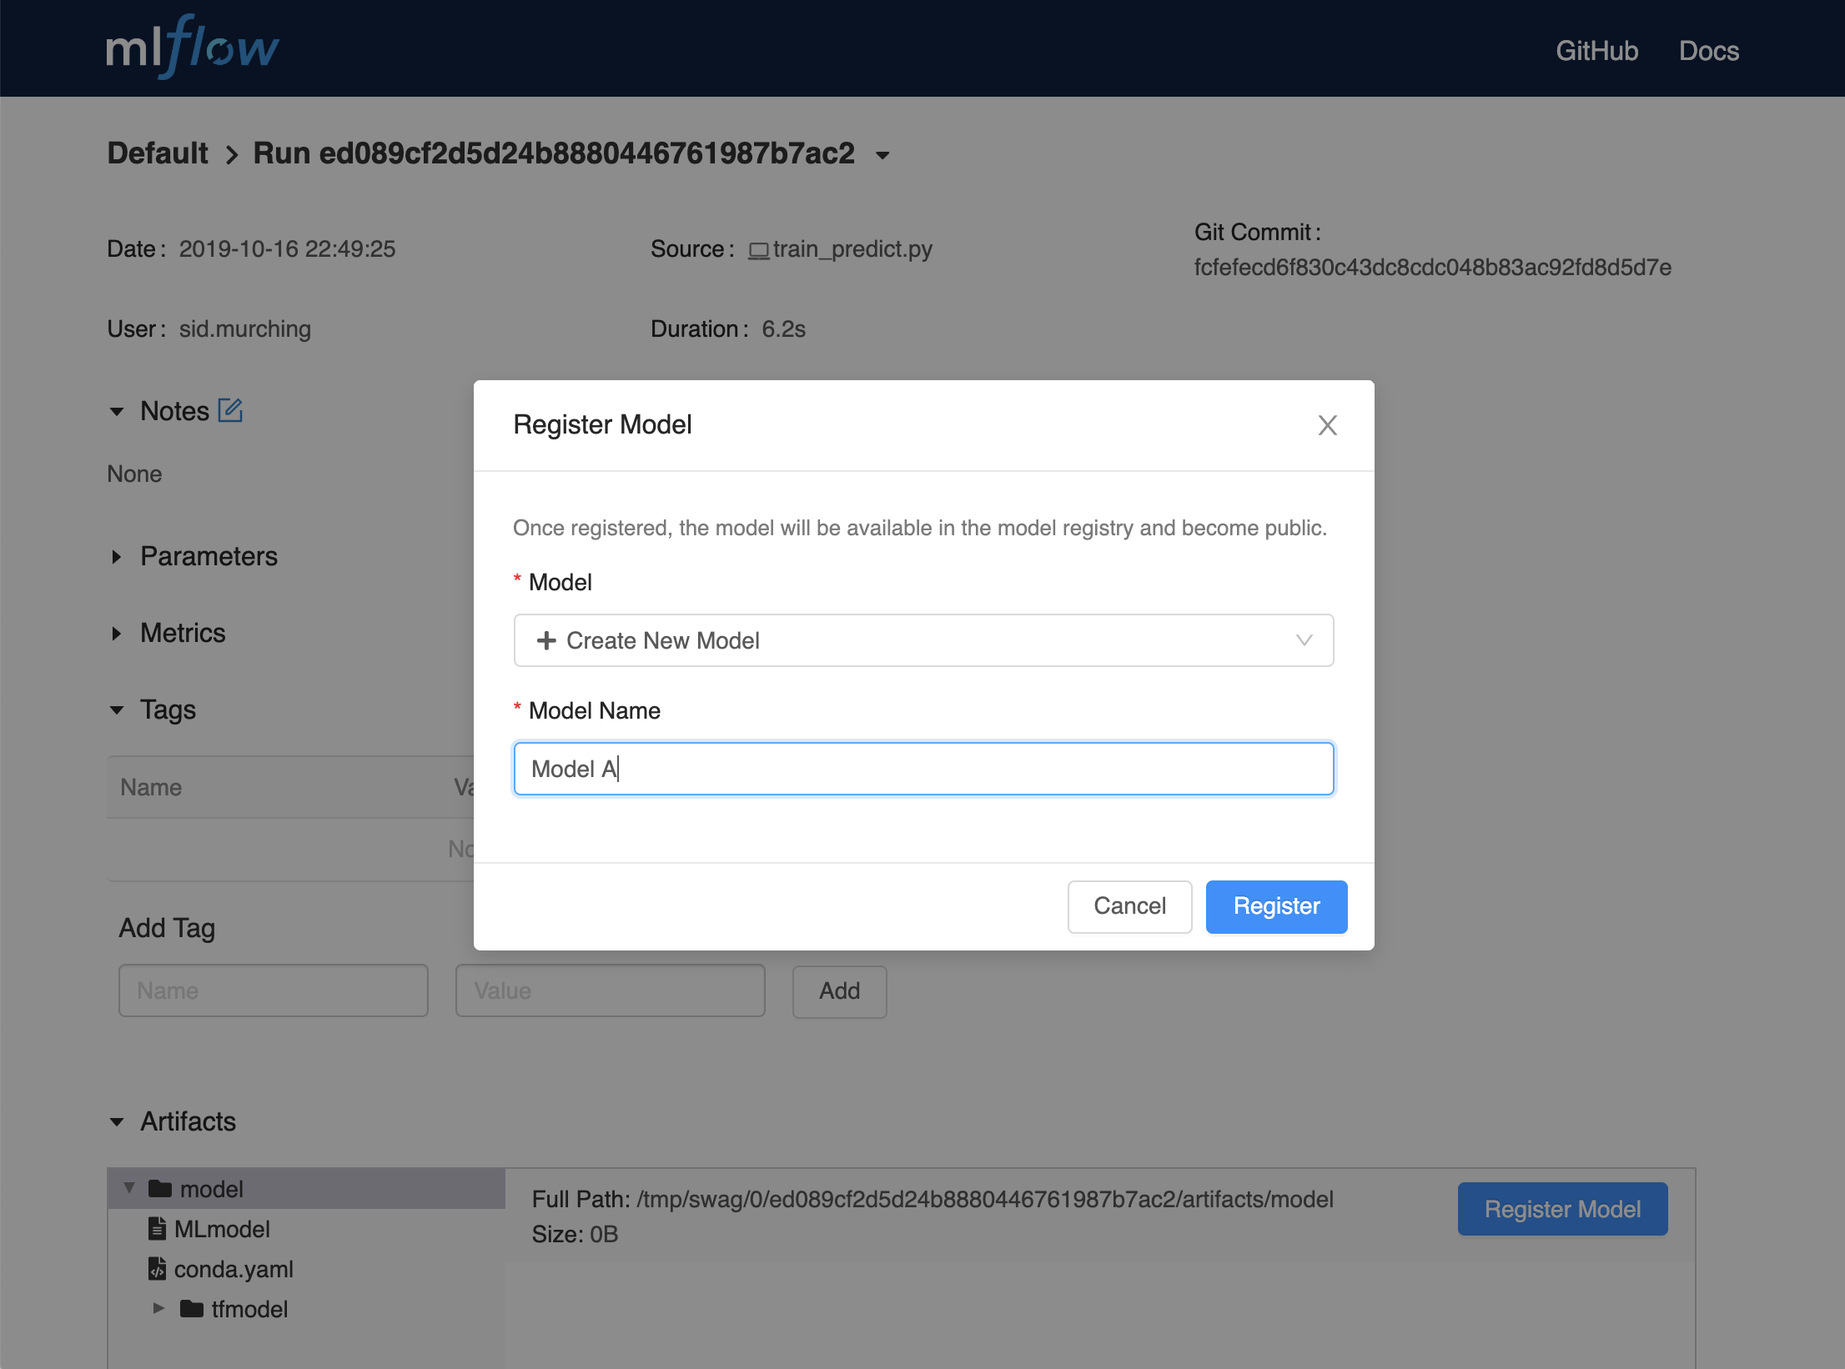
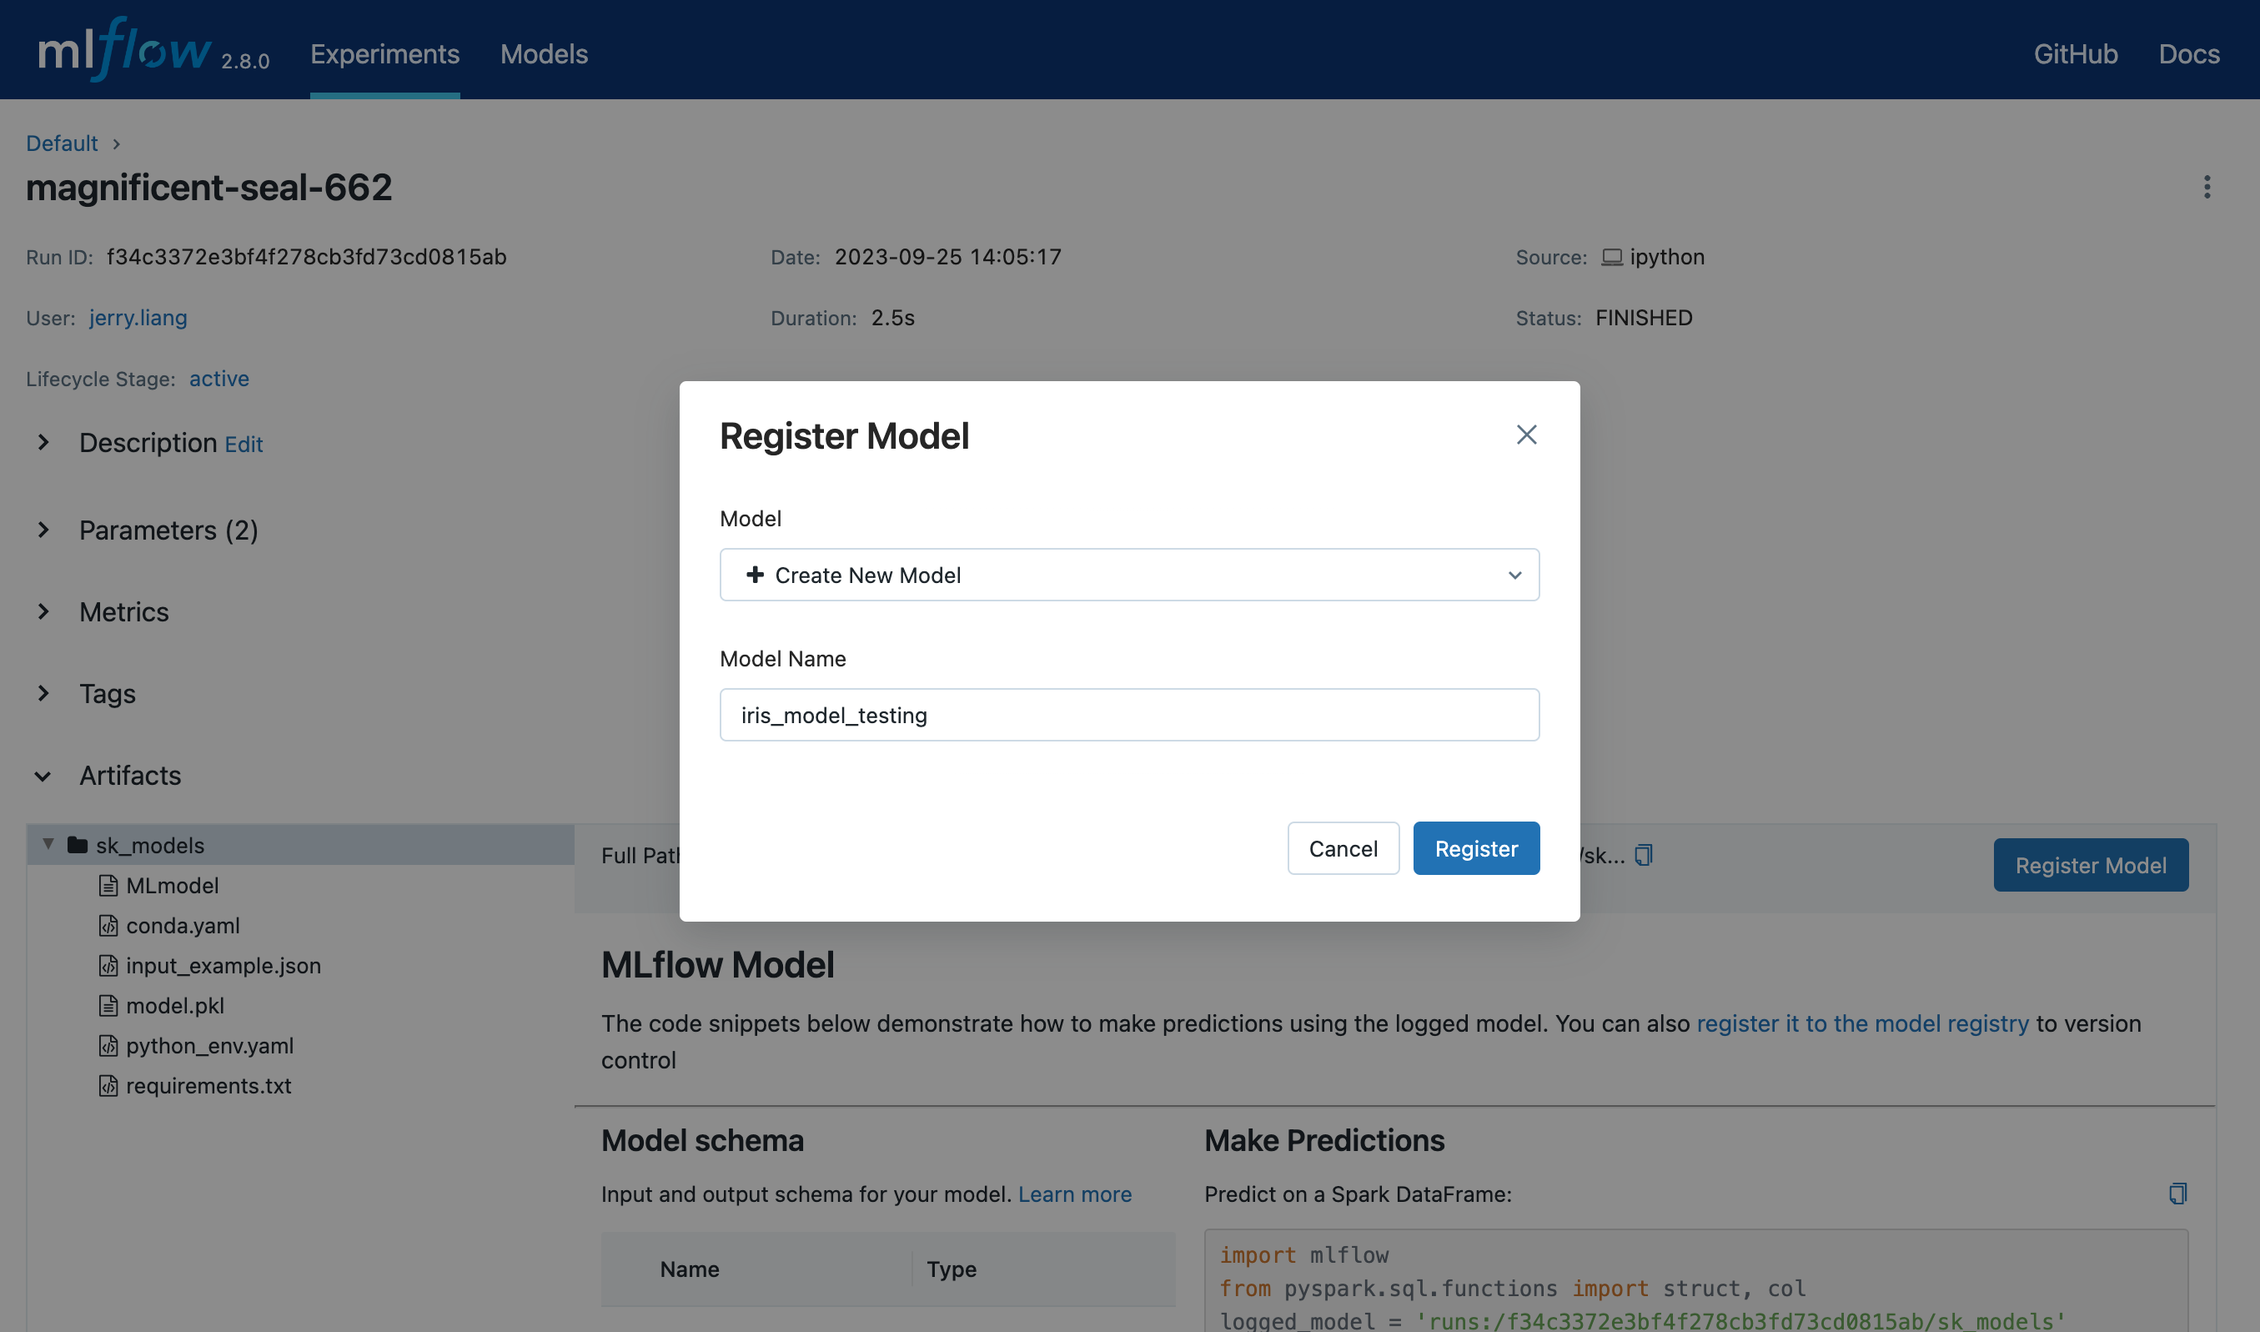
Update model registry documentation for aliases (#9721)

diff --git a/docs/source/conf.py b/docs/source/conf.py
@@ -89,7 +89,8 @@ language = None
 # List of patterns, relative to source directory, that match files and
 # directories to ignore when looking for source files.
 # This patterns also effect to html_static_path and html_extra_path
-exclude_patterns = []
+# We exclude "registry.rst" because it is an orphan redirect
+exclude_patterns = ["registry.rst"]
 
 # The reST default role (used for this markup: `text`) to use for all
 # documents.

diff --git a/docs/source/model-registry.rst b/docs/source/model-registry.rst
@@ -6,8 +6,8 @@ MLflow Model Registry
 
 The MLflow Model Registry component is a centralized model store, set of APIs, and UI, to
 collaboratively manage the full lifecycle of an MLflow Model. It provides model lineage (which
-MLflow experiment and run produced the model), model versioning, stage transitions (for example from
-staging to production), and annotations.
+MLflow experiment and run produced the model), model versioning, model aliasing, model tagging, and
+annotations.
 
 .. contents:: Table of Contents
   :local:
@@ -22,19 +22,26 @@ Model
     An MLflow Model is created from an experiment or run that is logged with one of the model flavor’s ``mlflow.<model_flavor>.log_model()`` methods. Once logged, this model can then be registered with the Model Registry.
 
 Registered Model
-    An MLflow Model can be registered with the  Model Registry. A registered model has a unique name, contains versions, associated transitional stages, model lineage, and other metadata.
+    An MLflow Model can be registered with the Model Registry. A registered model has a unique name, contains versions, associated transitional stages, model lineage, and other metadata.
 
 Model Version
     Each registered model can have one or many versions. When a new model is added to the Model Registry, it is added as version 1. Each new model registered to the same model name increments the version number.
 
-Model Stage
-    Each distinct model version can be assigned one stage at any given time. MLflow provides predefined stages for common use-cases such as *Staging*, *Production* or *Archived*. You can transition a model version from one stage to another stage.
+.. _using-registered-model-aliases:
+
+Model Alias
+    Model aliases allow you to assign a mutable, named reference to a particular version of a registered model. By assigning an alias to a specific model version, you can use the alias to refer that model version via a model URI or the model registry API. For example, you can create an alias named ``champion`` that points to version 1 of a model named ``MyModel``. You can then refer to version 1 of ``MyModel`` by using the URI ``models:/MyModel@champion``.
+
+    Aliases are especially useful for deploying models. For example, you could assign a ``champion`` alias to the model version intended for production traffic and target this alias in production workloads. You can then update the model serving production traffic by reassigning the ``champion`` alias to a different model version.
+
+Tags
+    Tags are key-value pairs that you associate with registered models and model versions, allowing you to label and categorize them by function or status. For example, you could apply a tag with key ``"task"`` and value ``"question-answering"`` (displayed in the UI as ``task:question-answering``) to registered models intended for question answering tasks. At the model version level, you could tag versions undergoing pre-deployment validation with ``validation_status:pending`` and those cleared for deployment with ``validation_status:approved``.
 
 Annotations and Descriptions
     You can annotate the top-level model and each version individually using Markdown, including description and any relevant information useful for the team such as algorithm descriptions, dataset employed or methodology.
 
-Model Alias
-    You can create an alias for a registered model that points to a specific model version. You can then use an alias to refer to a specific model version via a model URI or the model registry API. For example, you can create an alias named ``Champion`` that points to version 1 of a model named ``MyModel``. You can then refer to version 1 of ``MyModel`` by using the URI ``models:/MyModel@Champion``.
+Model Stage
+    Each distinct model version can be assigned one stage at any given time. MLflow provides predefined stages for common use-cases such as *Staging*, *Production* or *Archived*. You can transition a model version from one stage to another stage.
 
 Model Registry Workflows
 ========================
@@ -42,50 +49,58 @@ If running your own MLflow server, you must use a database-backed backend store 
 the model registry via the UI or API. `See here <tracking.html#backend-stores>`_ for more information.
 
 Before you can add a model to the Model Registry, you must log it using the ``log_model`` methods
-of the corresponding model flavors. Once a model has been logged, you can add, modify, update, transition,
-or delete model in the Model Registry through the UI or the API.
+of the corresponding model flavors. Once a model has been logged, you can add, modify, update,
+or delete the model in the Model Registry through the UI or the API.
 
 UI Workflow
 -----------
 
-Registering a Model
-^^^^^^^^^^^^^^^^^^^
+This section demonstrates how to use the MLflow Model Registry UI to manage your MLflow models.
 
-#. From the MLflow Runs detail page, select a logged MLflow Model in the **Artifacts** section.
+Register a Model
+^^^^^^^^^^^^^^^^
 
-#. Click the **Register Model** button.
+Follow the steps below to register your MLflow model in the Model Registry.
 
-   .. figure:: _static/images/oss_registry_1_register.png
+1. Open the details page for the MLflow Run containing the logged MLflow model you'd like to register. Select the model folder containing the intended MLflow model in the **Artifacts** section.
 
-#. In the **Model Name** field, if you are adding a new model, specify a unique name to identify the model. If you are registering a new version to an existing model, pick the existing model name from the dropdown.
+  .. figure:: _static/images/oss_registry_1_register.png
 
+2. Click the **Register Model** button, which will trigger a form to pop up.
+
+3. In the **Model** dropdown menu on the form, you can either select "Create New Model", which creates a new registered model with your MLflow model as its initial version, or select an existing registered model, which registers your model under it as a new version. The screenshot below demonstrates registering the MLflow model to a new registered model named ``"iris_model_testing"``.
+ 
   .. figure:: _static/images/oss_registry_2_dialog.png
 
-Using the Model Registry
-^^^^^^^^^^^^^^^^^^^^^^^^
+Find Registered Models
+^^^^^^^^^^^^^^^^^^^^^^
 
-- Navigate to the **Registered Models** page and view the model properties.
+After you've registered your models in the Model Registry, you can navigate to them in the following ways.
+
+- Navigate to the **Registered Models** page, which links to your registered models and correponding model versions.
 
   .. figure:: _static/images/oss_registry_3_overview.png
 
-- Go to the **Artifacts** section of the run detail page, click the model, and then click the model version at the top right to view the version you just created.
+- Go to the **Artifacts** section of your MLflow Runs details page, click the model folder, and then click the model version at the top right to view the version created from that model.
 
   .. figure:: _static/images/oss_registry_3b_version.png
 
-Each model has an overview page that shows the active versions.
+Deploy and Organize Models
+^^^^^^^^^^^^^^^^^^^^^^^^^^
 
-.. figure:: _static/images/oss_registry_3c_version.png
+You can deploy and organize your models in the Model Registry using model aliases and tags. To set aliases and tags for model versions in your registered model, navigate to the overview page of your registered model, such as the one below.
 
-Click a version to navigate to the version detail page.
+.. figure:: _static/images/oss_registry_4_model.png
 
-.. figure:: _static/images/oss_registry_4_version.png
+You can add or edit aliases and tags for a specific model version by clicking on the corresponding ``Add`` link or pencil icon in the model verison table.
 
-On the version detail page you can see model version details and the current stage of the model
-version. Click the **Stage** drop-down at the top right, to transition the model
-version to one of the other valid stages.
+.. figure:: _static/images/oss_registry_4b_model_alias.png
 
-.. figure:: _static/images/oss_registry_5_transition.png
+To learn more about a specific model version, navigate to the details page for that model version.
 
+.. figure:: _static/images/oss_registry_5_version.png
+
+In this page, you can inspect model version details like the model signature, MLflow source run, and creation timestamp. You can also view and configure the verion's aliases, tags, and description.
 
 API Workflow
 ------------
@@ -171,10 +186,64 @@ as shown below to create a new version of the model.
         run_id="d16076a3ec534311817565e6527539c0",
     )
 
+
+Deploy and Organize Models with Aliases and Tags
+^^^^^^^^^^^^^^^^^^^^^^^^^^^^^^^^^^^^^^^^^^^^^^^^
+
+Model aliases and tags help you deploy and organize your models in the Model Registry.
+
+**Set and delete aliases on models**
+
+To set, update, and delete aliases using the MLflow Client API, see the examples below:
+
+.. code-block:: python
+
+    from mlflow import MlflowClient
+
+    client = MlflowClient()
+
+    # create "champion" alias for version 1 of model "example-model"
+    client.set_registered_model_alias("example-model", "champion", 1)
+
+    # reassign the "Champion" alias to version 2
+    client.set_registered_model_alias("example-model", "Champion", 2)
+
+    # get a model version by alias
+    client.get_model_version_by_alias("example-model", "Champion")
+
+    # delete the alias
+    client.delete_registered_model_alias("example-model", "Champion")
+
+**Set and delete tags on models**
+
+To set and delete tags using the MLflow Client API, see the examples below:
+
+.. code-block:: python
+
+    from mlflow import MlflowClient
+
+    client = MlflowClient()
+
+    # Set registered model tag
+    client.set_registered_model_tag("example-model", "task", "classification")
+
+    # Delete registered model tag
+    client.delete_registered_model_tag("example-model", "task")
+
+    # Set model version tag
+    client.set_model_version_tag("example-model", "1", "validation_status", "approved")
+
+    # Delete model version tag
+    client.delete_model_version_tag("example-model", "1", "validation_status")
+
+For more details on alias and tag client APIs, see the :py:mod:`mlflow.client` API documentation.
+
+
 Fetching an MLflow Model from the Model Registry
 ^^^^^^^^^^^^^^^^^^^^^^^^^^^^^^^^^^^^^^^^^^^^^^^^
 
 After you have registered an MLflow model, you can fetch that model using ``mlflow.<model_flavor>.load_model()``, or more generally, :meth:`~mlflow.pyfunc.load_model`.
+You can use the loaded model for one off predictions or in inference workloads such as batch inference.
 
 **Fetch a specific model version**
 
@@ -190,6 +259,23 @@ To fetch a specific model version, just supply that version number as part of th
     model = mlflow.pyfunc.load_model(model_uri=f"models:/{model_name}/{model_version}")
 
     model.predict(data)
+
+**Fetch a model version by alias**
+
+To fetch a model version by alias, specify the model alias in the model URI, and it will fetch the model version currently under it.
+
+.. code-block:: python
+
+    import mlflow.pyfunc
+
+    model_name = "sk-learn-random-forest-reg-model"
+    alias = "champion"
+
+    champion_version = mlflow.pyfunc.load_model(f"models:/{model_name}@{alias}")
+
+    champion_version.predict(data)
+
+Note that model alias assignments can be updated independently of your production code. If the ``champion`` alias in the snippet above is reassigned to a new model version in the Model Registry, the next execution of this snippet will automatically pick up the new model version. This allows you to decouple model deployments from your inference workloads.
 
 **Fetch the latest model version in a specific stage**
 
@@ -247,20 +333,6 @@ As well as adding or updating a description of a specific version of the model, 
         name="sk-learn-random-forest-reg-model",
         new_name="sk-learn-random-forest-reg-model-100",
     )
-
-Transitioning an MLflow Model’s Stage
-^^^^^^^^^^^^^^^^^^^^^^^^^^^^^^^^^^^^^
-Over the course of the model’s lifecycle, a model evolves—from development to staging to production.
-You can transition a registered model to one of the stages: **Staging**, **Production** or **Archived**.
-
-.. code-block:: python
-
-    client = MlflowClient()
-    client.transition_model_version_stage(
-        name="sk-learn-random-forest-reg-model", version=3, stage="Production"
-    )
-
-The accepted values for <stage> are: Staging|Archived|Production|None.
 
 Listing and Searching MLflow Models
 ^^^^^^^^^^^^^^^^^^^^^^^^^^^^^^^^^^^
@@ -327,20 +399,6 @@ This outputs:
         "user_id": None,
         "version": 2,
     }
-
-
-Archiving an MLflow Model
-^^^^^^^^^^^^^^^^^^^^^^^^^
-You can move models versions out of a **Production** stage into an **Archived** stage.
-At a later point, if that archived model is not needed, you can delete it.
-
-.. code-block:: python
-
-    # Archive models version 3 from Production into Archived
-    client = MlflowClient()
-    client.transition_model_version_stage(
-        name="sk-learn-random-forest-reg-model", version=3, stage="Archived"
-    )
 
 Deleting MLflow Models
 ^^^^^^^^^^^^^^^^^^^^^^
@@ -623,66 +681,30 @@ save, log, register, and load from the Model Registry and score.
     <Yay!! Another good phone interview. I nailed it!!> -- {'neg': 0.0, 'neu': 0.446, 'pos': 0.554, 'compound': 0.816}
     <This is INSANE! I can't believe it. How could you do such a horrible thing?> -- {'neg': 0.357, 'neu': 0.643, 'pos': 0.0, 'compound': -0.8034}
 
-Using Registered Model Aliases
-^^^^^^^^^^^^^^^^^^^^^^^^^^^^^^^^^^^^^^^^^^^^^^^^^
-Model aliases in the MLflow Model Registry allow you to assign a mutable, named reference to a particular version within a
-registered model. You can use aliases to specify which model versions are deployed in a given environment in your model
-training workflows (e.g. specify the current ``Champion`` model version that should serve the majority of production traffic),
-and then write inference workloads that target that alias ("make predictions using the ``Champion`` version"). The example
-workflow below captures this idea.
-
-
-**Mark model for deployment using aliases**
-
-We can set a ``Champion`` alias to point to a newly trained model version, indicating to downstream inference workloads that they
-should use this model version to make predictions on production traffic:
+Transitioning an MLflow Model’s Stage
+^^^^^^^^^^^^^^^^^^^^^^^^^^^^^^^^^^^^^
+Over the course of the model’s lifecycle, a model evolves—from development to staging to production.
+You can transition a registered model to one of the stages: **Staging**, **Production** or **Archived**.
 
 .. code-block:: python
-
-    # Register a new model and version
-    from sklearn.ensemble import RandomForestRegressor
-
-    import mlflow
-    import mlflow.sklearn
-
-    with mlflow.start_run(run_name="YOUR_RUN_NAME") as run:
-        params = {"n_estimators": 5, "random_state": 42}
-        sk_learn_rfr = RandomForestRegressor(**params)
-
-        # Log the sklearn model and register as version 1
-        mlflow.sklearn.log_model(
-            sk_model=sk_learn_rfr,
-            artifact_path="sklearn-model",
-            registered_model_name="example-model",
-        )
-
-    # Set alias on model version
-    from mlflow import MlflowClient
 
     client = MlflowClient()
-    client.set_registered_model_alias("example-model", "Champion", 1)
+    client.transition_model_version_stage(
+        name="sk-learn-random-forest-reg-model", version=3, stage="Production"
+    )
 
+The accepted values for <stage> are: Staging|Archived|Production|None.
 
-**Consume model versions by alias in inference workloads**
-
-You can write batch inference workloads that reference a model version by alias. For example, the snippet below loads and applies
-the ``Champion`` model version for batch inference. If the ``Champion`` version is updated to reference a new model version, the batch
-inference workload automatically picks it up on its next execution. This allows you to decouple model deployments/updates from your
-batch inference workloads.
+Archiving an MLflow Model
+^^^^^^^^^^^^^^^^^^^^^^^^^
+You can move models versions out of a **Production** stage into an **Archived** stage.
+At a later point, if that archived model is not needed, you can delete it.
 
 .. code-block:: python
 
-    import mlflow.pyfunc
-
-    model_version_uri = "models:/example-model@Champion"
-    champion_version = mlflow.pyfunc.load_model(model_version_uri)
-    champion_version.predict(test_x)
-
-See the full set of client APIs for working with aliases in the MLflow documentation, including APIs to
-:meth:`~mlflow.client.MlflowClient.get_model_version_by_alias` and :meth:`~mlflow.client.MlflowClient.delete_registered_model_alias`.
-
-
-
-
-
+    # Archive models version 3 from Production into Archived
+    client = MlflowClient()
+    client.transition_model_version_stage(
+        name="sk-learn-random-forest-reg-model", version=3, stage="Archived"
+    )
 
